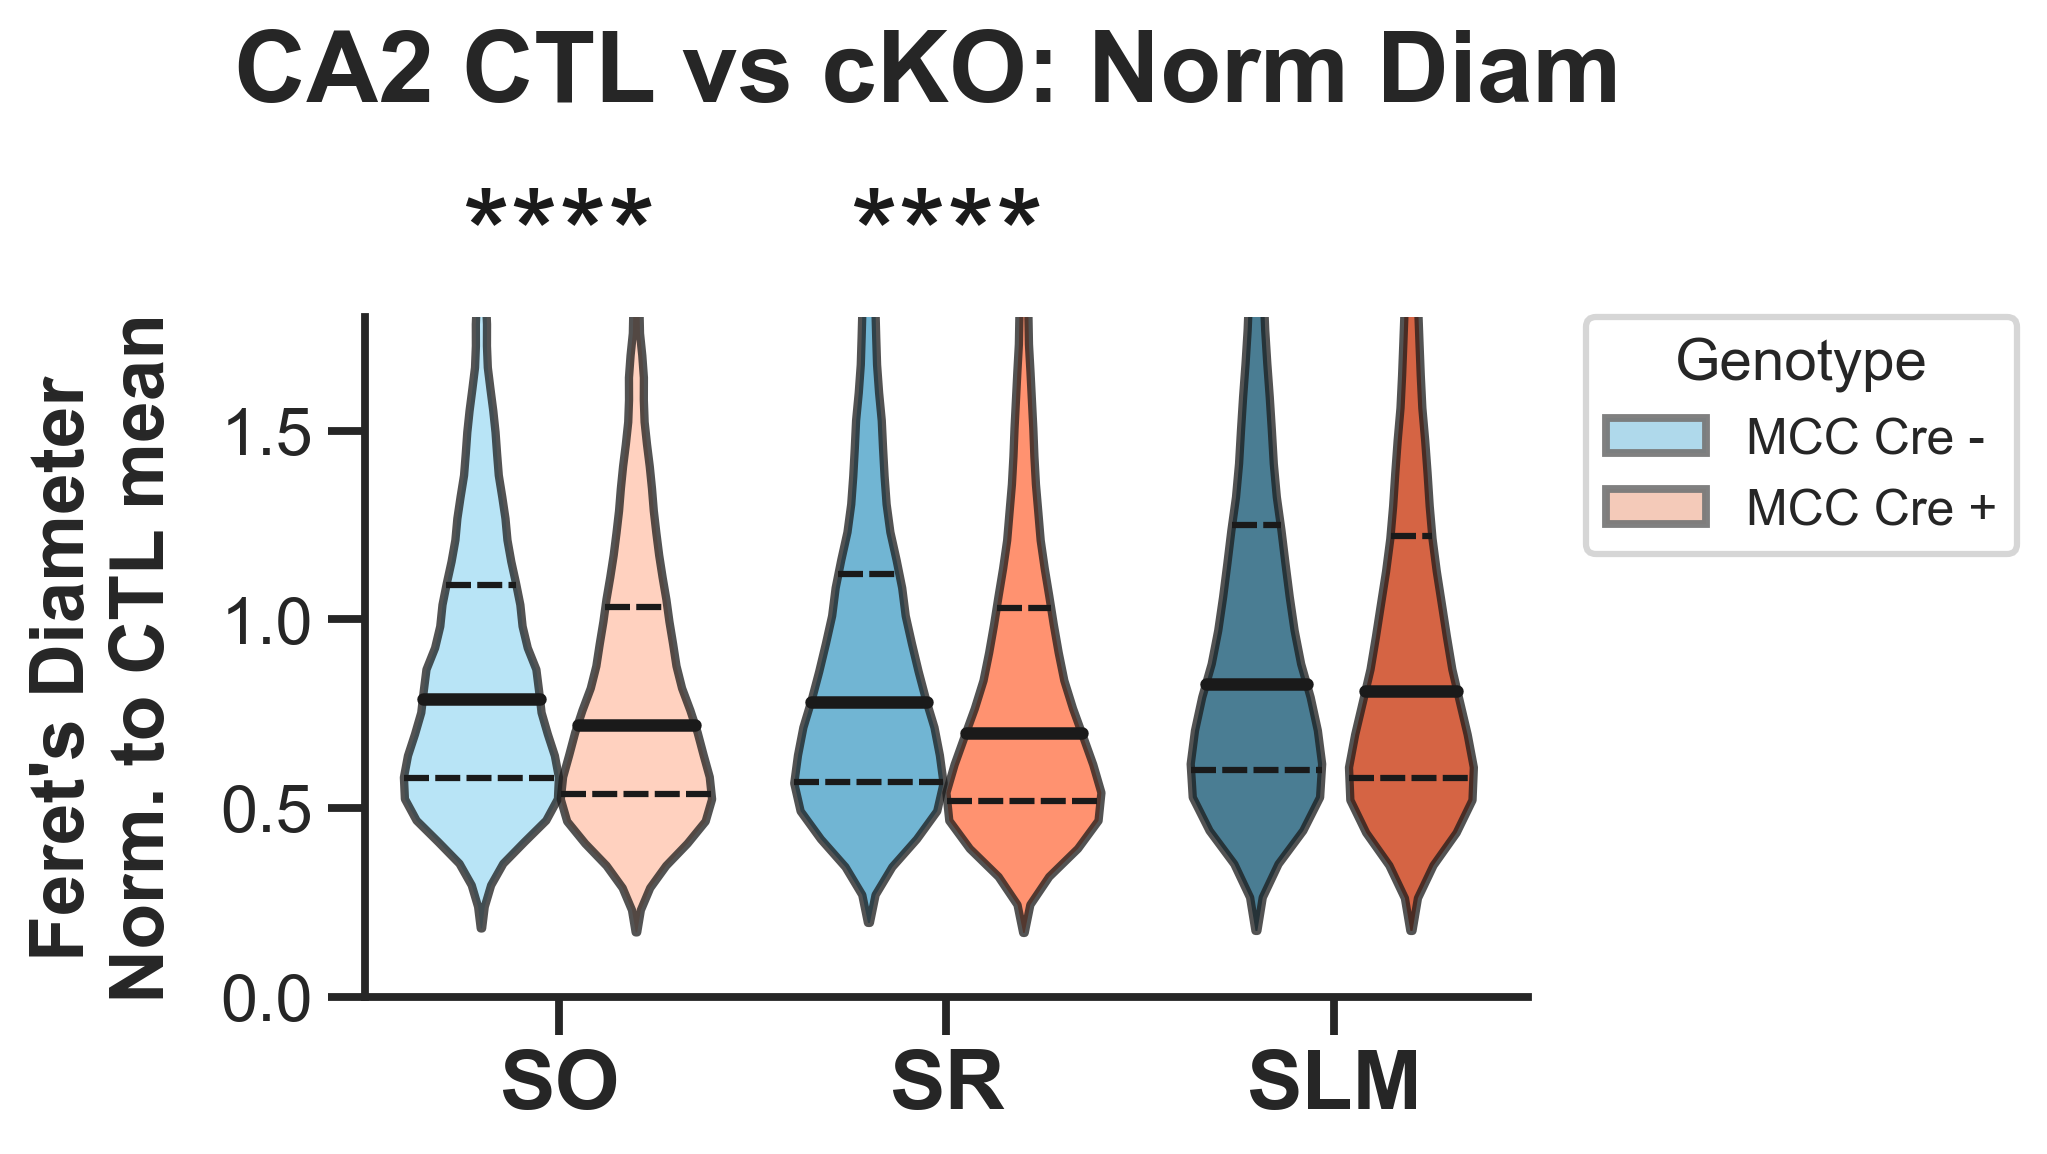
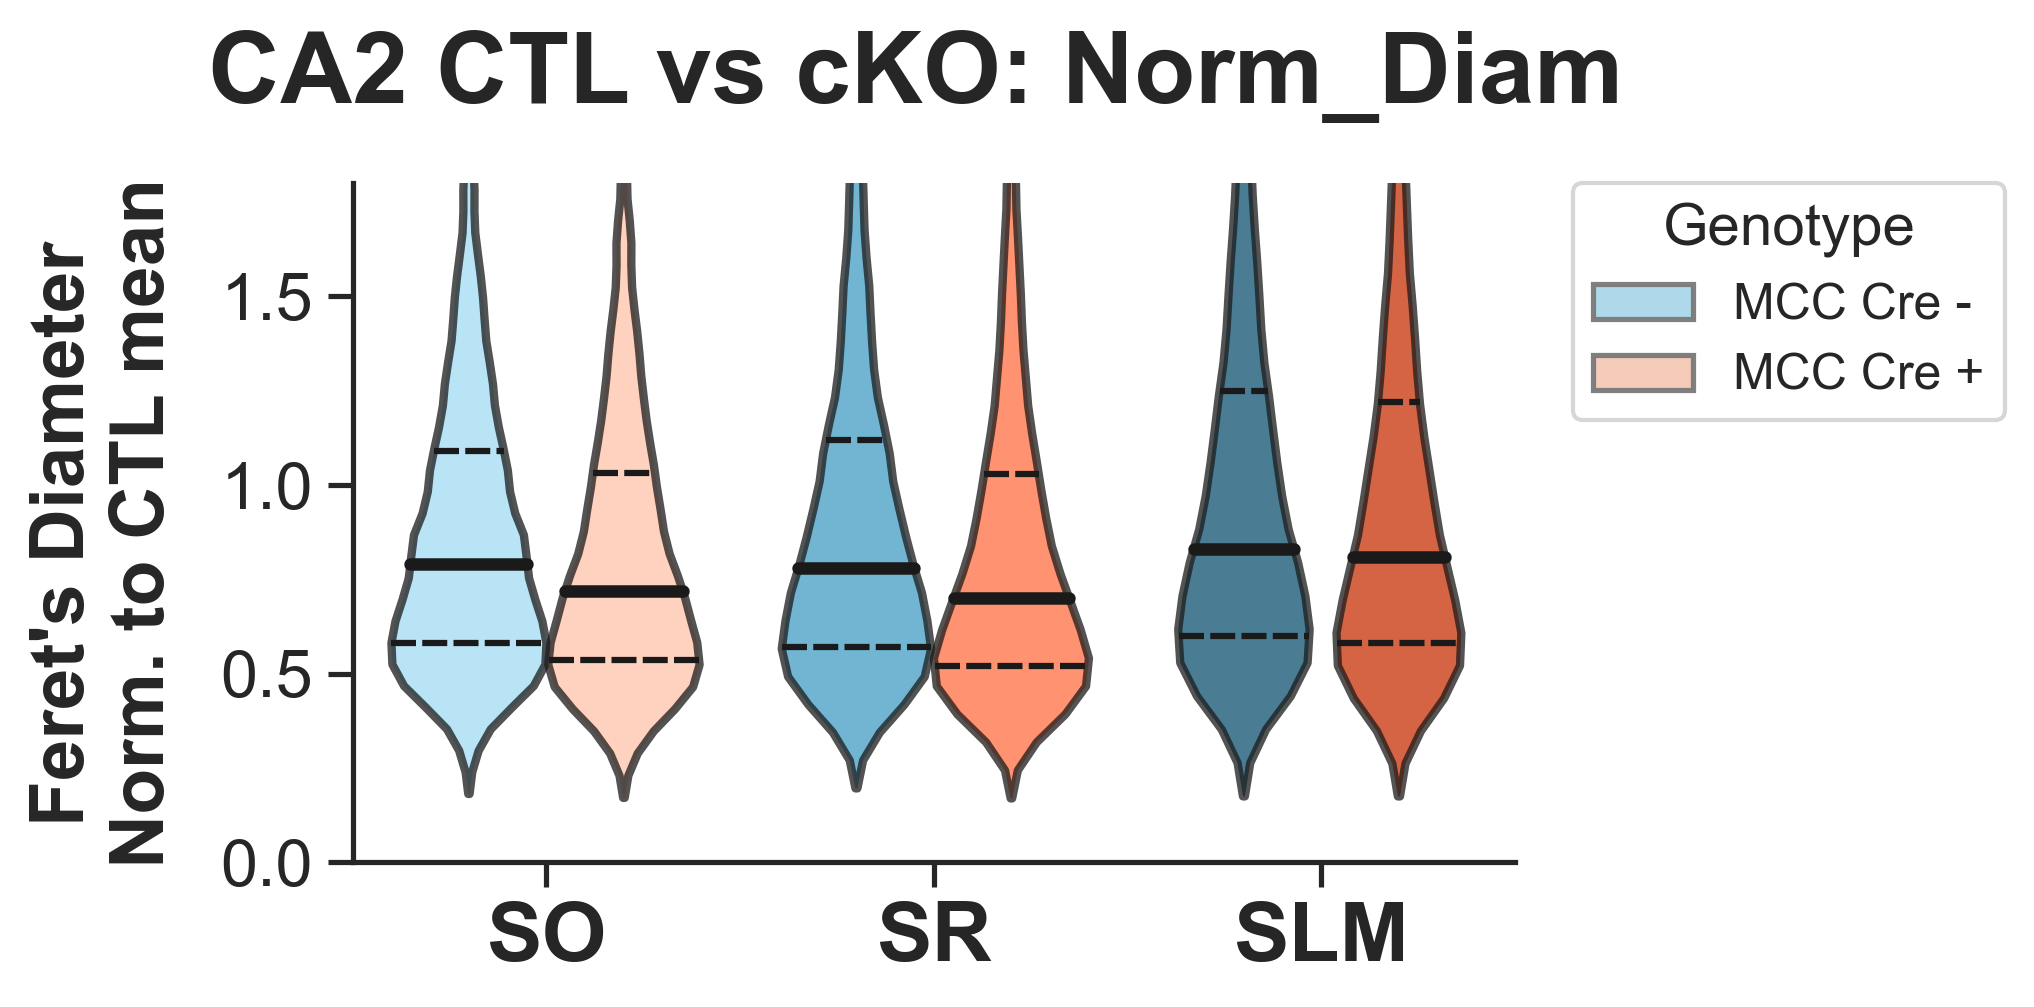
Removed ANOVA stats from the analysis code and plots

Changed region(s): [[0.0, 0.1539, 0.7434, 0.9851], [0.7743, 0.1539, 0.9912, 0.4926], [0.0929, 0.0, 0.8053, 0.1231]]

diff --git a/EM_image_mito_analysis_Biodock_6_20_2024_cleaned.py b/EM_image_mito_analysis_Biodock_6_20_2024_cleaned.py
@@ -410,11 +410,17 @@ num_groups = len(group_list)
 # Go back and add count before here
 if num_groups >1:
     
-    # get the group averages by layer
-    genotype_avg = round(mito_data.groupby(["Genotype", "Layer"]).median(numeric_only=True),2)
+    # Get the group medians by layer
+    genotype_med = round(mito_data.groupby(["Genotype", "Layer"]).median(numeric_only=True),2)
     
-    #Subset to get only the metrics of interest
-    genotype_sub = genotype_avg.loc[:, ("Area_um_sq", "Aspect_Ratio", "Perimeter_um", "Feret_diam_um", "NN_Dist_um")]
+    # Also look at the group standard deviations
+    genotype_std = round(mito_data.groupby(["Genotype", "Layer"]).std(numeric_only=True),2)
+    
+    # Subset to get only the metrics of interest
+    genotype_sub = genotype_med.loc[:, ("Area_um_sq", "Aspect_Ratio", "Perimeter_um", "Feret_diam_um", "NN_Dist_um")]
+    
+    # Subset the standard dev table as well with the same columns
+    genotype_sub_std = genotype_std.loc[:, ("Area_um_sq", "Aspect_Ratio", "Perimeter_um", "Feret_diam_um", "NN_Dist_um")]
     
     # Get count from the mito_avgs dataframe
     genotype_sub["Count_100um2"] = round(mito_avgs[["Genotype", "Layer", "Count"]].groupby(["Genotype", "Layer"]).median(),1)
@@ -423,7 +429,8 @@ if num_groups >1:
     # print to the console
     print("\n Group Averages:\n", genotype_sub)
     # Save as a CSV file
-    genotype_sub.to_csv(os.path.join(dirName, str("SEM_mito_group_summary.csv")))
+    genotype_sub.to_csv(os.path.join(dirName, str("SEM_mito_group_summary_medians.csv")))
+    genotype_sub_std.to_csv(os.path.join(dirName, str("SEM_mito_group_summary_std.csv")))
     
     # Get 75% percentile stats for area and diameter to use to pick representative images
     desc_stats = mito_data[["Area", "Feret Diameter Maximum", "Genotype", "Layer"]].groupby(["Genotype", "Layer"]).describe()
@@ -464,7 +471,8 @@ KO_colors = sns.cubehelix_palette(n_colors = 3, start=1.05, light=0.85, dark=0.3
 
 print("\nAnalyzing denditic mitochondria in the CTL (not normalized):")
 
-# violin plot for individual mito area in the CTL 
+# violin plot for individual mito area in the CTL
+# If you want to run an ANOVA with any of these plots, add "stats = 1" to the line below and an ANOVA and post hoc tests will be run between your defined groups and saved as CSV files and significance added to the plots
 WT_KO_violin(data = WT_data, data_col = "Area_um_sq", group=0, title ="CTL CA2", save_path = fig_path, units = "Mito Area (\u00B5m\u00B2)", y_range = [0,0.5], colors = WT_colors)
 
 # violin plot for mito Feret's diameter in CTL:
@@ -485,16 +493,16 @@ print("\nAnalyzing denditic mitochondria in the CTL and MCU KO (normalized to CT
 violin_colors = [item for pair in zip(WT_colors, KO_colors + [0]) for item in pair]
 
 # violin plot for individual mito area in cKO and CTL normalized to CTL
-WT_KO_violin(data = mito_data, data_col = "Norm_Area", title = "CA2 CTL vs cKO", save_path = fig_path, units = "Mito Area \nNorm. to CTL mean", y_range = [0,2], colors = violin_colors, stats=1)
+WT_KO_violin(data = mito_data, data_col = "Norm_Area", title = "CA2 CTL vs cKO", save_path = fig_path, units = "Mito Area \nNorm. to CTL mean", y_range = [0,2], colors = violin_colors)
 
 # violin plot for mito Feret's diameter normalized to CTL:
-WT_KO_violin(data = mito_data, data_col = "Norm_Diam", title = "CA2 CTL vs cKO", save_path = fig_path, units = "Feret's Diameter \nNorm. to CTL mean", y_range = [0,1.8], colors = violin_colors, stats=1)
+WT_KO_violin(data = mito_data, data_col = "Norm_Diam", title = "CA2 CTL vs cKO", save_path = fig_path, units = "Feret's Diameter \nNorm. to CTL mean", y_range = [0,1.8], colors = violin_colors)
 
 # violin plot for mito aspect ratio normalized to CTL:
-WT_KO_violin(data = mito_data, data_col = "Norm_Aspect", title = "CA2 CTL vs cKO", save_path = fig_path, units = "Aspect Ratio \nNorm. to CTL mean", y_range = [0,2], colors = violin_colors, stats=1)
+WT_KO_violin(data = mito_data, data_col = "Norm_Aspect", title = "CA2 CTL vs cKO", save_path = fig_path, units = "Aspect Ratio \nNorm. to CTL mean", y_range = [0,2], colors = violin_colors)
 
 # violin plot for nearest neighbor distance normalized to CTL:
-WT_KO_violin(data = mito_data, data_col = "Norm_Dist", title = "CA2 CTL vs cKO", save_path = fig_path, units = "NN Distance \nNorm. to CTL mean", y_range = [0,3], colors = violin_colors, stats=1)
+WT_KO_violin(data = mito_data, data_col = "Norm_Dist", title = "CA2 CTL vs cKO", save_path = fig_path, units = "NN Distance \nNorm. to CTL mean", y_range = [0,3], colors = violin_colors)
 
 
 #%%% Now lets make a few more plots to look at mitochondrial content across layers in the cKO and CTL. We will plot mitochondrial count and mitochondrial total area.
@@ -512,10 +520,10 @@ print("\nMitochondrial content (per tile):")
 # Get metrics for mitochondrial content like the number of mitochondria and total mito area. These will be at the level of image tile and will be plotted as box plots instead of violin plots.
 
 # Box plot of total mitochondria area per tile (100 um2)
-WT_KO_violin(data = mito_avgs, data_col = "Total_mito_Area_um_sq", plot_type ="box", save_path = plot_path, units = "Total mito Area \nper 100 \u00B5m\u00B2", y_range = [0,8], stats=1)
+WT_KO_violin(data = mito_avgs, data_col = "Total_mito_Area_um_sq", plot_type ="box", title = "CA2 CTL vs cKO", save_path = plot_path, units = "Total mito Area \nper 100 \u00B5m\u00B2", y_range = [0,8])
 
 # Box plot of Number of mitos per tile (100 um2)
-WT_KO_violin(data = mito_avgs, data_col = "Count", plot_type ="box", save_path = plot_path, units = "Mito Count / 100 \u00B5m\u00B2", y_range = [0,60], stats=1)
+WT_KO_violin(data = mito_avgs, data_col = "Count", plot_type ="box", title = "CA2 CTL vs cKO", save_path = plot_path, units = "Mito Count / 100 \u00B5m\u00B2", y_range = [0,60])
 
 # Generate a scatter plot with total mito area on the X axis and mitochondria count on the Y. This is part of Figure 4 of the manuscript.
 
@@ -596,7 +604,7 @@ norm_to_ctl_grouped = round(norm_to_ctl_tile.groupby(["Genotype", "Layer"], obse
 
 # Create a dataframe for the normalized data
 # grab the normalized data for the other metrics from the genotype_avg dataframe
-norm_indiv_data = genotype_avg.loc[:, ("Norm_Area", "Norm_Aspect", "Norm_Diam", "Norm_Dist")]
+norm_indiv_data = genotype_med.loc[:, ("Norm_Area", "Norm_Aspect", "Norm_Diam", "Norm_Dist")]
 
 # combine the normalized data into a dataframe
 norm_to_ctl_grouped = pd.concat([norm_indiv_data, norm_to_ctl_grouped], axis=1)

diff --git a/mito_functions.py b/mito_functions.py
@@ -582,9 +582,9 @@ def WT_KO_violin(data, data_col, save_path, plot_type = "violin", group = "Genot
 
     # Save the figure as a PNG file
     if group == 0: # if no further grouping
-        plt.savefig(os.path.join(save_path, str(data_col + "_by_layer_violin.png")), format='png', dpi=300, bbox_inches='tight')
+        plt.savefig(os.path.join(save_path, str(data_col + f"_by_layer_{plot_type}.png")), format='png', dpi=300, bbox_inches='tight')
     else: # if a group was used, include it in the filename
-        plt.savefig(os.path.join(save_path, str(data_col + "_by_" + str(group) + "_violin.png")), format='png', dpi=300, bbox_inches='tight')
+        plt.savefig(os.path.join(save_path, str(data_col + "_by_" + str(group) + f"_{plot_type}.png")), format='png', dpi=300, bbox_inches='tight')
     
         
         
